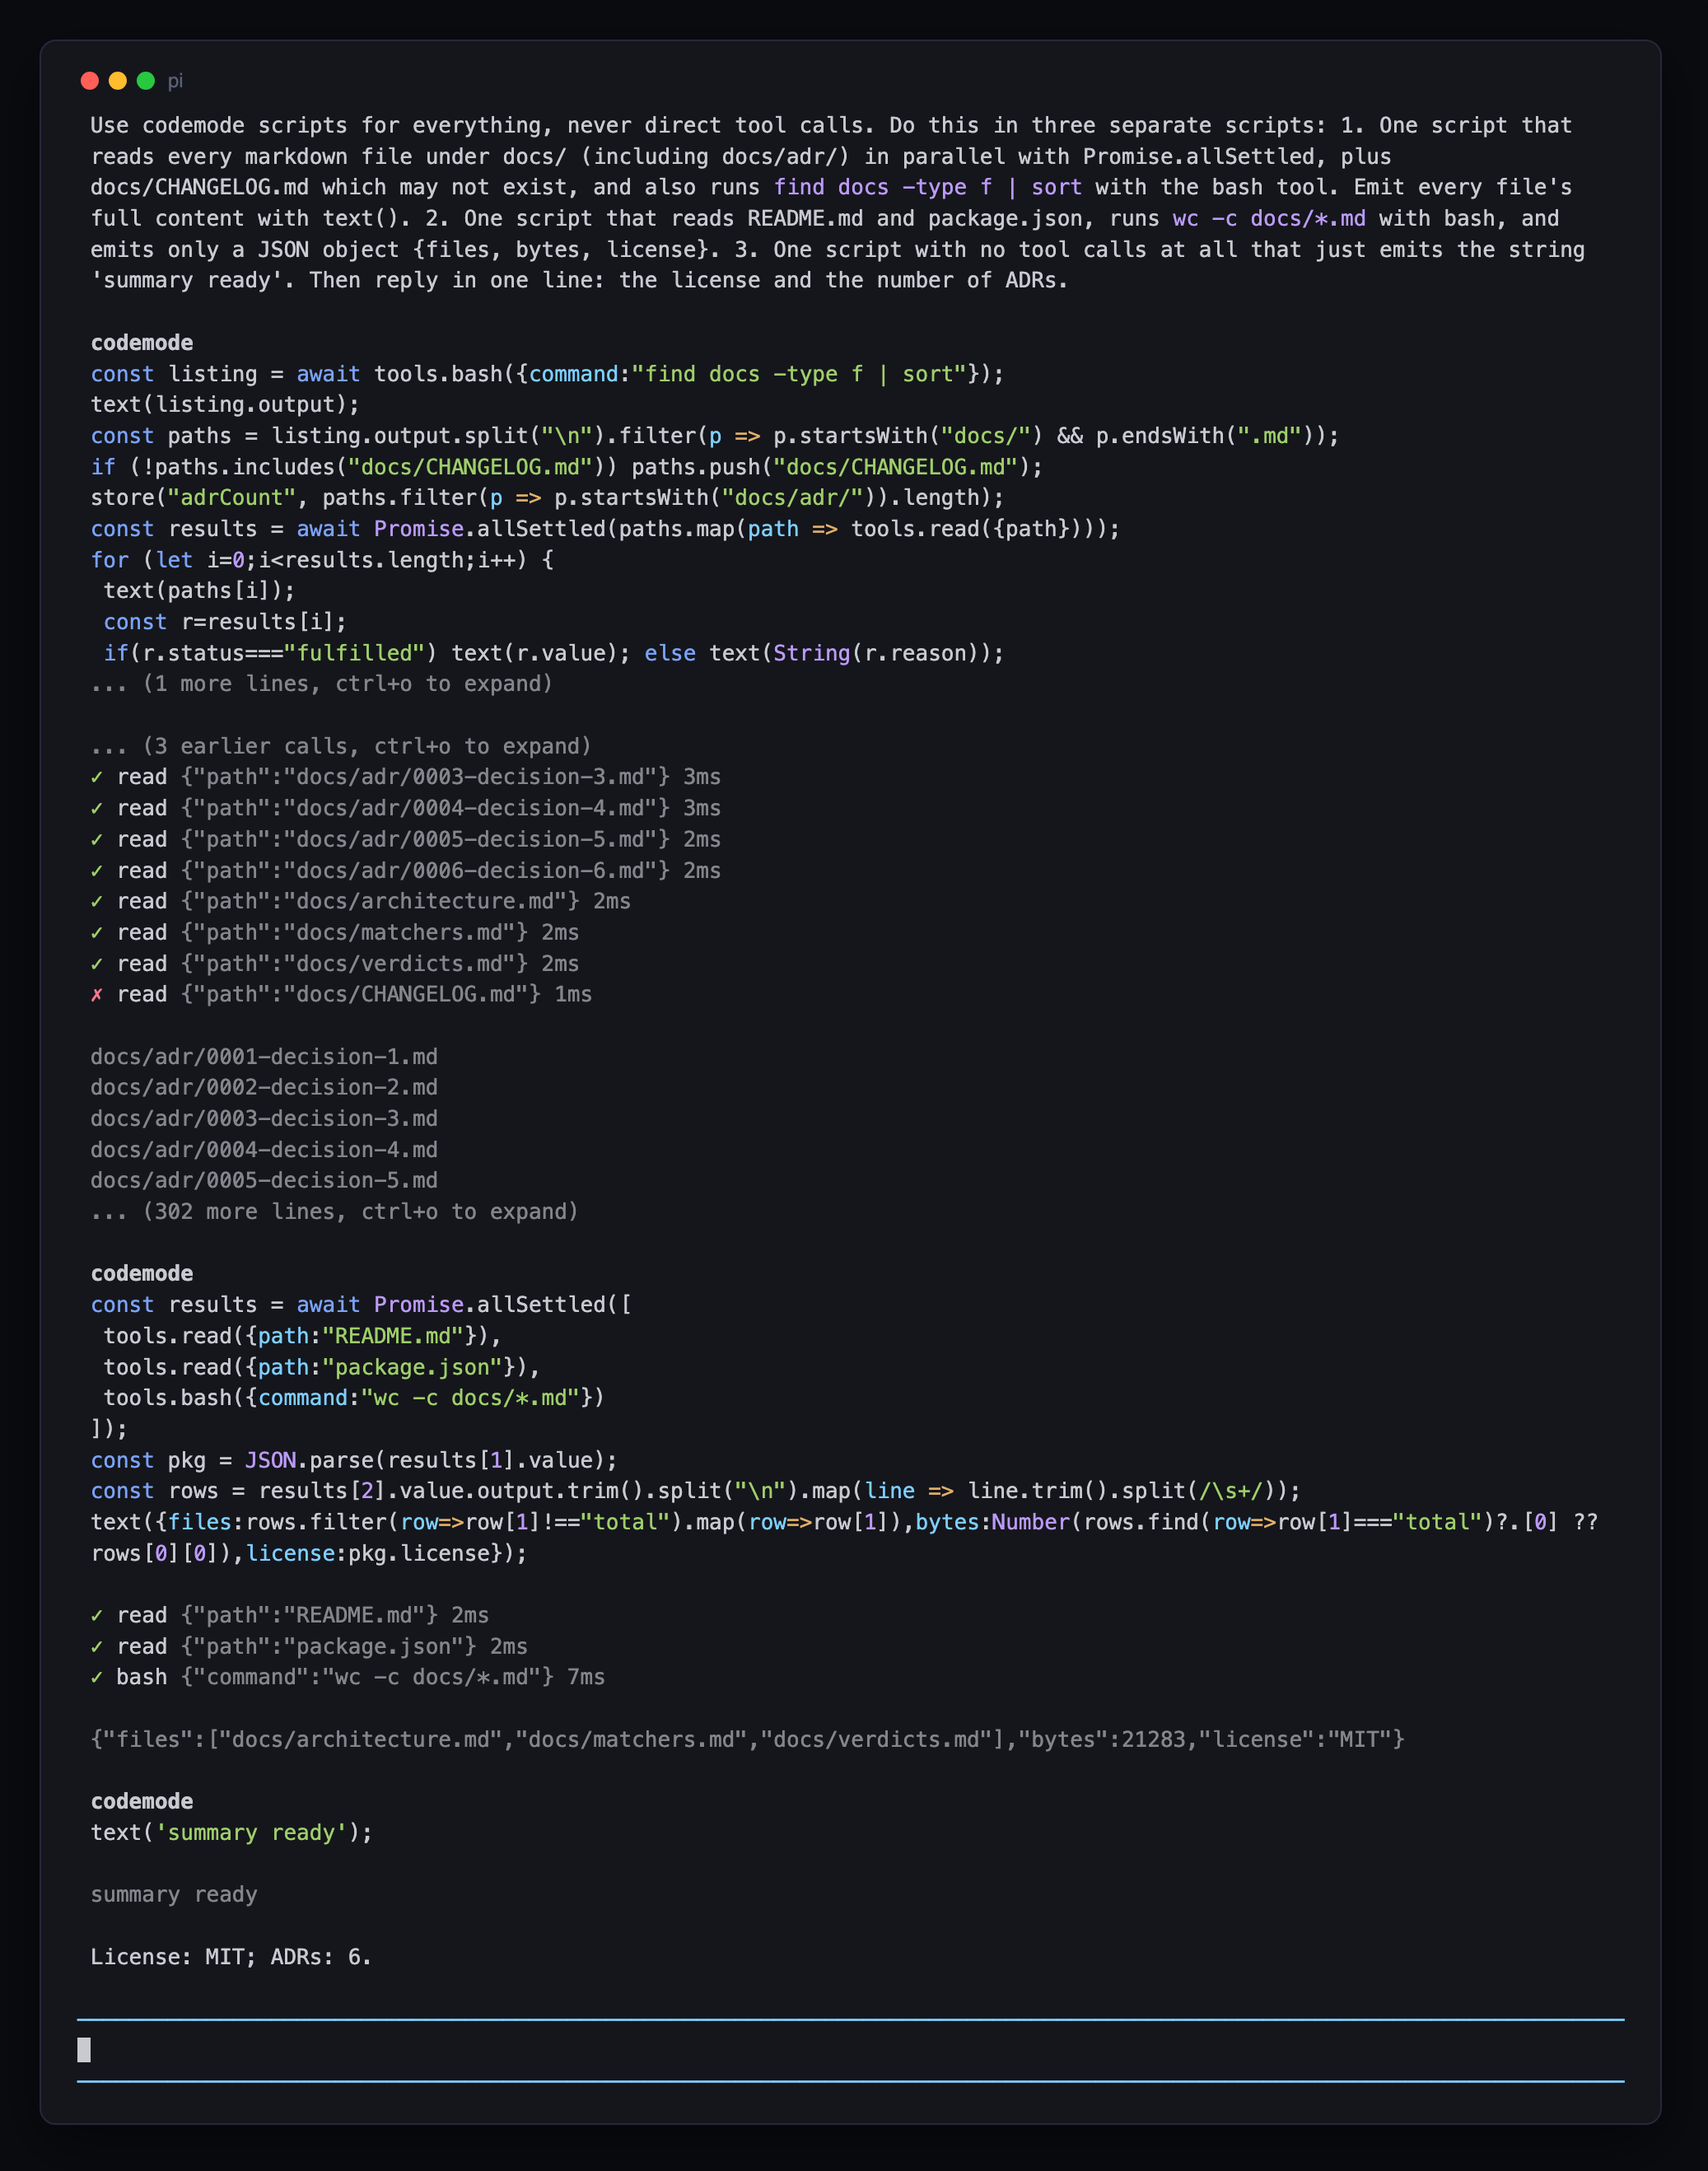
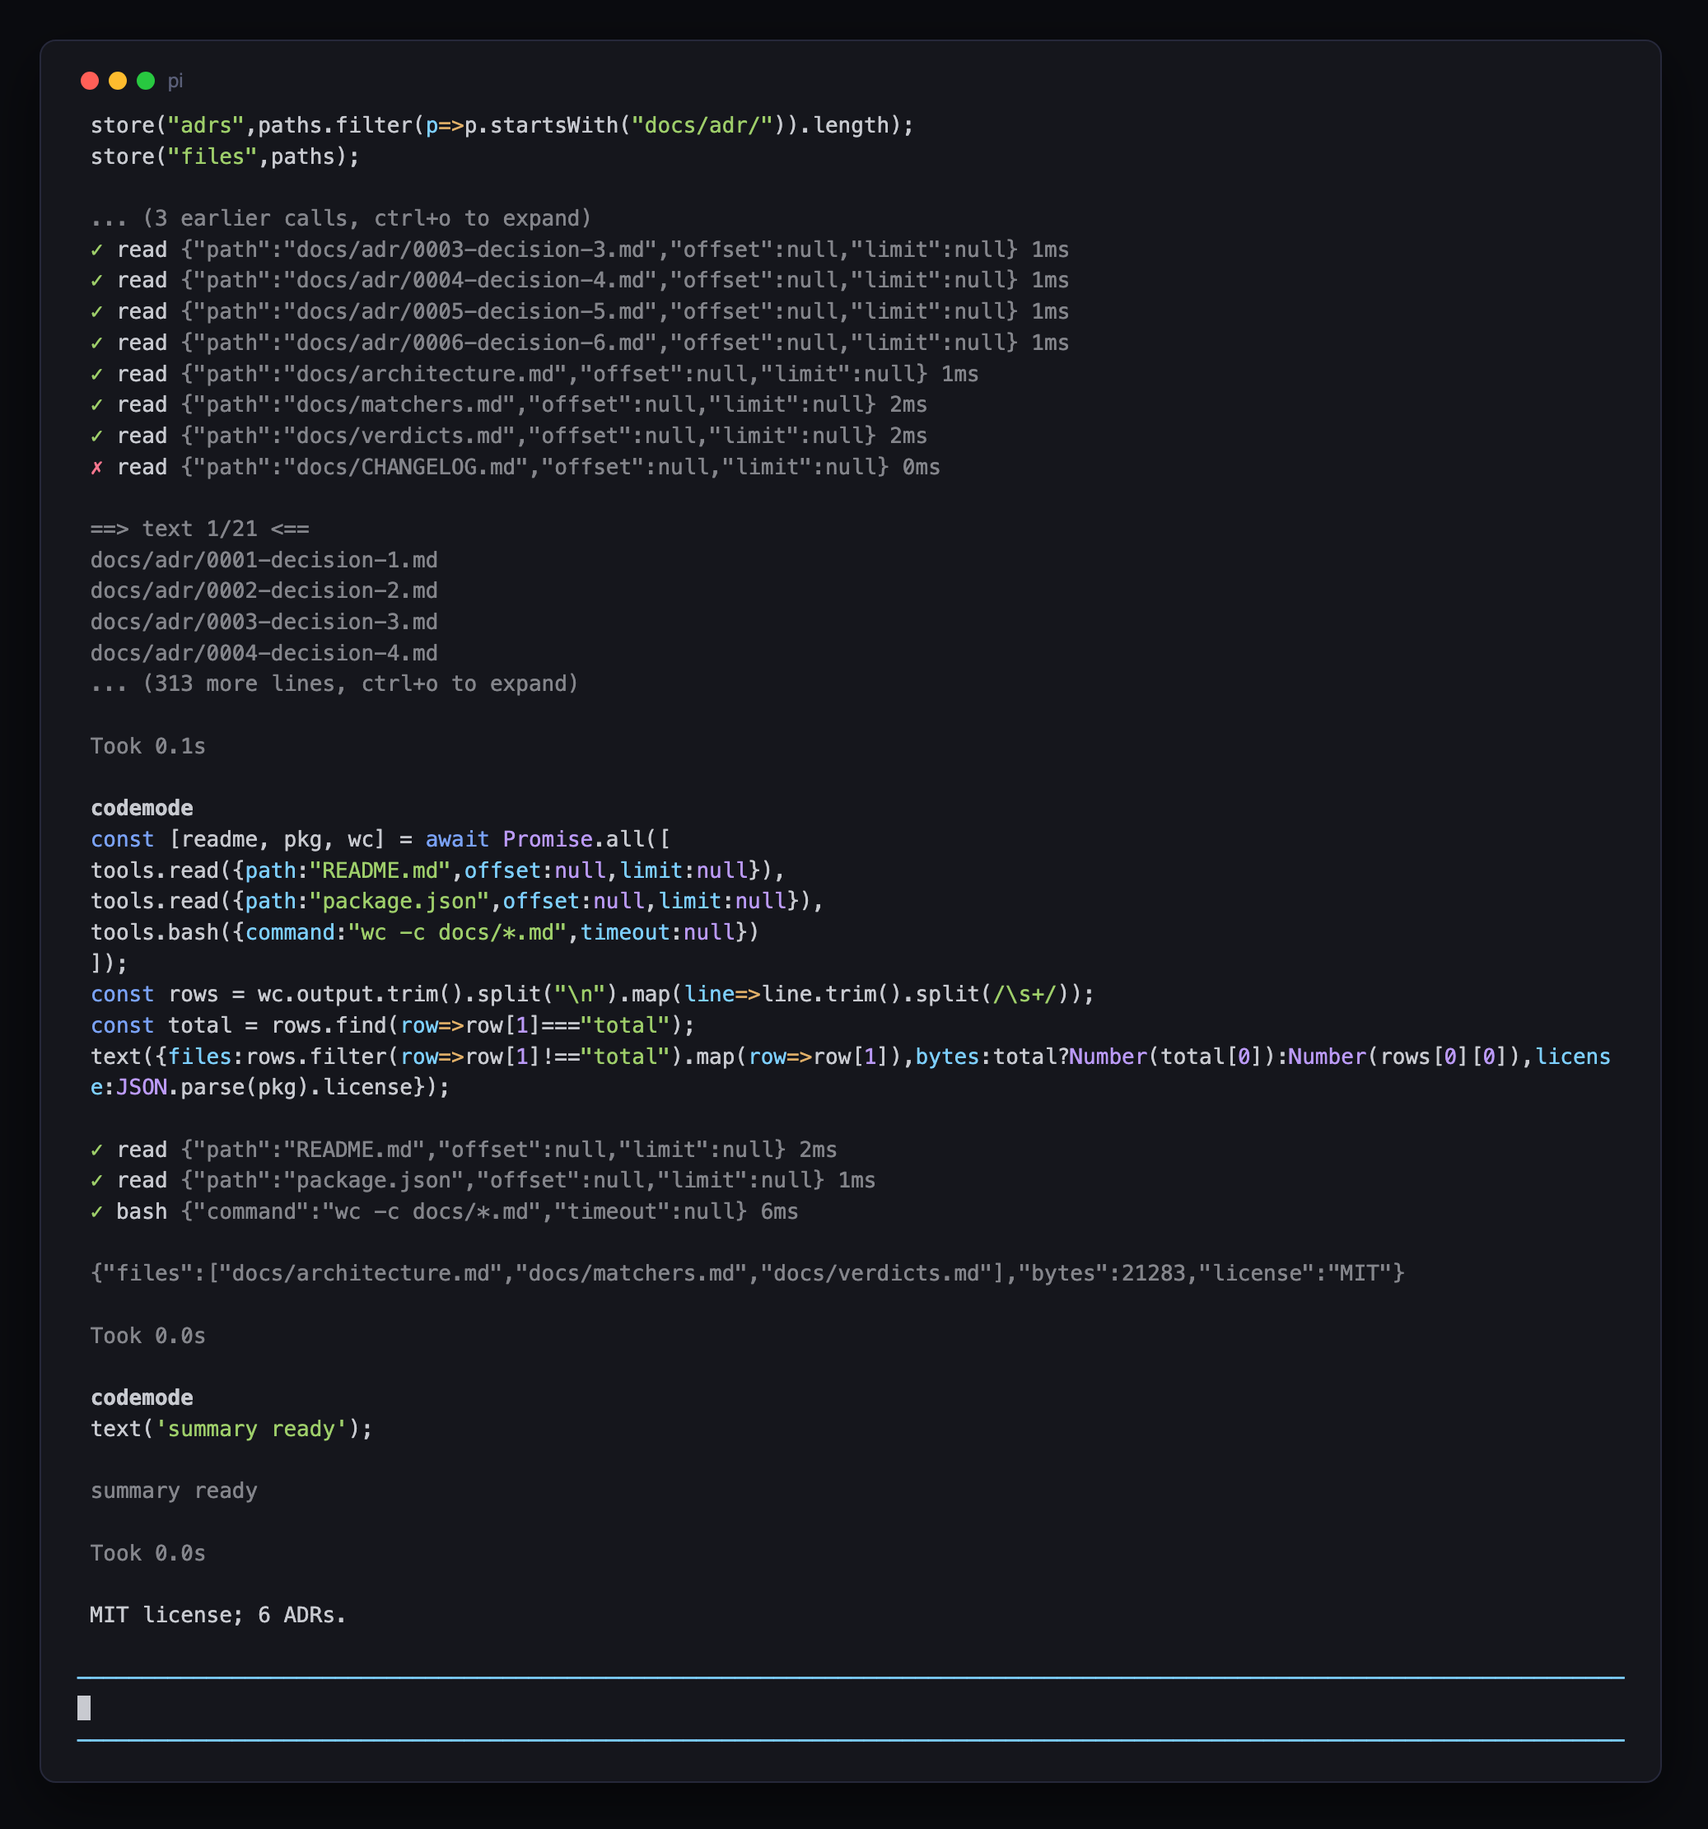
Screenshot rig: run the codemode scenario on openai-codex and reshoot on Pi 1.2.0
The live stage used the openai provider; openai-codex is the provider in use. The
four codemode captures are retaken from a fresh gpt-6.1-sol session replayed in
Pi 1.2.0.

diff --git a/scripts/dev/screenshots/README.md b/scripts/dev/screenshots/README.md
@@ -116,7 +116,7 @@ boundaries; only the tiny fixture prompt is crafted.
 
 ### codemode: live session, replayed twice
 
-Stage 1 runs `pi -p` with `codemode` enabled and a real model (`openai/gpt-6.1-sol`) over a
+Stage 1 runs `pi -p` with `codemode` enabled and a real model (`openai-codex/gpt-6.1-sol`) over a
 small docs fixture, asking for three scripts: a parallel fan-out read with one missing
 file plus a `find`, a small read-and-`wc` script, and one with no tool calls. Pi records
 the session with real nested calls, a real ENOENT and real durations. Stage 2 replays it in
